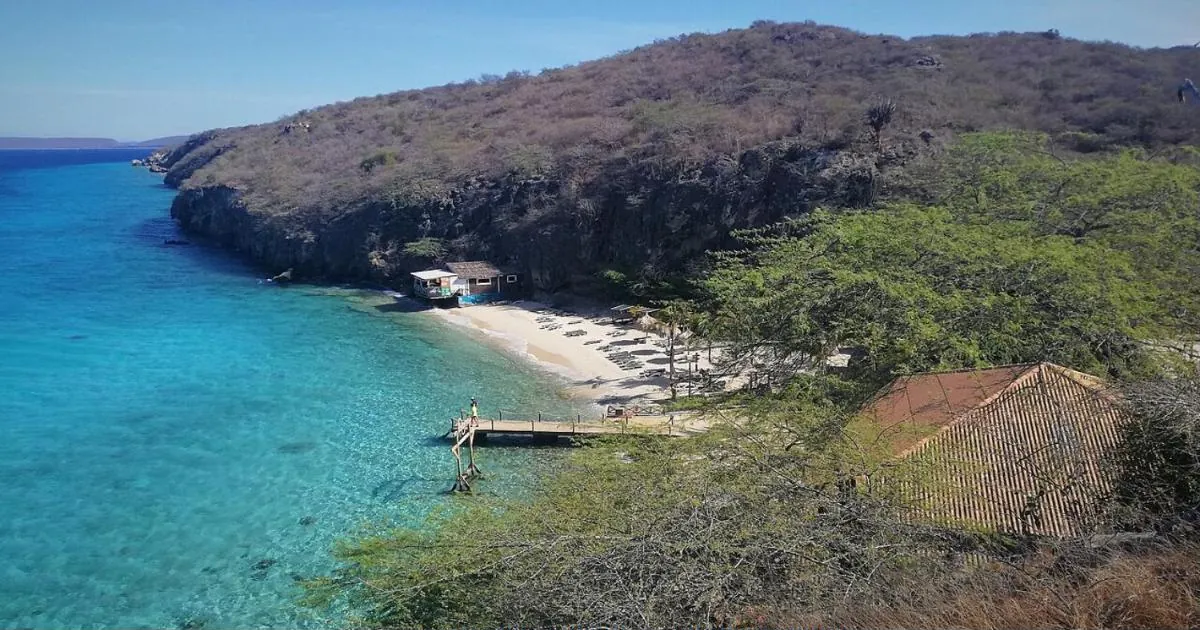
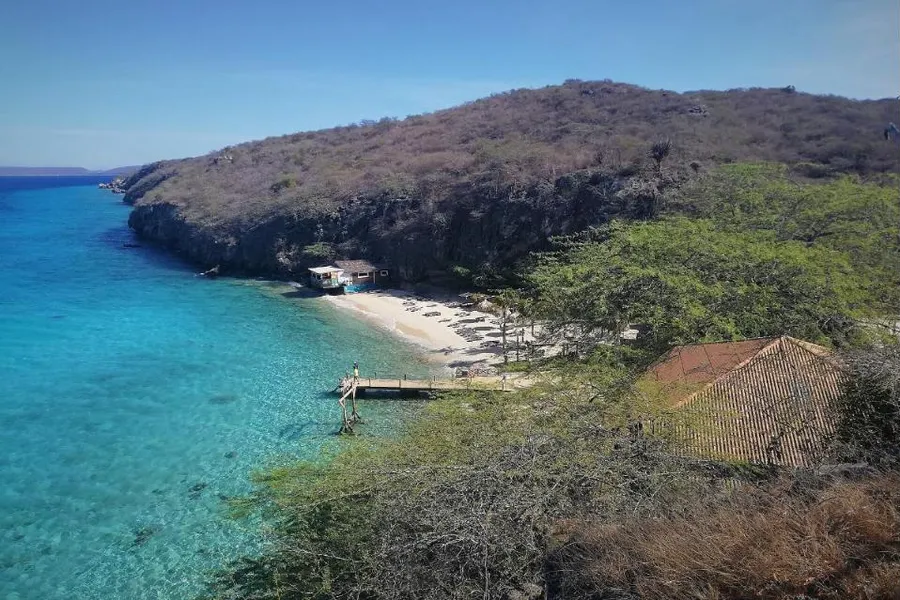
Strandenblog: 7 nieuwe strandfoto's (Wikimedia, met naamsvermelding)
Claude-Session: https://claude.ai/code/session_01PcY7vYDDtwQ4j7n5Q5BWRA

diff --git a/blog/beste-stranden-curacao.html b/blog/beste-stranden-curacao.html
@@ -295,6 +295,7 @@ article tr:nth-child(even) td{background:#F8FAFC}
 <dl class="sf"><div><dt>Gezinnen</dt><dd>Ja, lang ondiep water, speeltuin en waterpark</dd></div><div><dt>Snorkelen</dt><dd>Ja, langs het rif bij de kant</dd></div><div><dt>Voorzieningen</dt><dd>Strandbars, restaurants, winkels, toiletten, douches</dd></div><div><dt>Entree</dt><dd>Betaald, vaak met ligbed</dd></div><div><dt>Schaduw</dt><dd>Parasols bij de ligbedden</dd></div></dl>
 
 <h3>3. Jan Thiel</h3>
+<figure class="dp-foto"><img src="/images/foto/jan-thiel-strand.webp" width="900" height="600" alt="Jan Thiel: rustig water achter de pier en strandtenten onder de palmen" loading="lazy" decoding="async"><figcaption>Jan Thiel: rustig water achter de pier en strandtenten onder de palmen. <span>Foto: <a href="https://commons.wikimedia.org/wiki/File:Curacao_beach_Jan_Thiel_(36699644845).jpg" rel="nofollow noopener" target="_blank">dronepicr</a>, <a href="https://creativecommons.org/licenses/by/2.0/" rel="nofollow noopener" target="_blank">CC BY 2.0</a></span></figcaption></figure>
 <p style="font-size:13px;color:#5C6B7A;margin:-4px 0 8px"><strong>Regio:</strong> Oost &middot; <strong>Goed voor:</strong> gezinnen die alles bij de hand willen hebben</p>
 <p>Een strand met alle voorzieningen: een speeltuin, restaurants, ijs, toiletten met verschoontafel en veel parasols. Een pier beschermt een deel van het strand, waardoor het water daar rustig is. Het zand is grotendeels aangevoerd, dus het voelt minder natuurlijk dan de stranden in het westen.</p>
 <dl class="sf"><div><dt>Gezinnen</dt><dd>Ja, rustig water achter de pier, speeltuin</dd></div><div><dt>Snorkelen</dt><dd>Ja, vanaf de kant</dd></div><div><dt>Voorzieningen</dt><dd>Restaurants, ijs, toiletten met verschoontafel</dd></div><div><dt>Entree</dt><dd>Betaald, gratis voor gasten van sommige resorts</dd></div><div><dt>Schaduw</dt><dd>Veel parasols</dd></div></dl>
@@ -333,6 +334,7 @@ article tr:nth-child(even) td{background:#F8FAFC}
 <dl class="sf"><div><dt>Gezinnen</dt><dd>Ja, rustig instappen, maar verderop snel diep</dd></div><div><dt>Snorkelen</dt><dd>Ja, langs de klifwand links</dd></div><div><dt>Voorzieningen</dt><dd>Snackbar, toiletten (klein bedrag), ligbedden te huur</dd></div><div><dt>Entree</dt><dd>Gratis</dd></div><div><dt>Schaduw</dt><dd>Een paar palmen en palmhutjes</dd></div></dl>
 
 <h3>8. Porto Mari</h3>
+<figure class="dp-foto"><img src="/images/foto/porto-mari-strand.webp" width="900" height="600" alt="Porto Mari: een brede baai met wit zand" loading="lazy" decoding="async"><figcaption>Porto Mari: een brede baai met wit zand. <span>Foto: <a href="https://commons.wikimedia.org/wiki/File:Playa_Porto_Mari_Strand_Curacao_(36561716151).jpg" rel="nofollow noopener" target="_blank">dronepicr</a>, <a href="https://creativecommons.org/licenses/by/2.0/" rel="nofollow noopener" target="_blank">CC BY 2.0</a></span></figcaption></figure>
 <p style="font-size:13px;color:#5C6B7A;margin:-4px 0 8px"><strong>Regio:</strong> West &middot; <strong>Goed voor:</strong> wit zand, palmen en twee riffen</p>
 <p>Een breed strand met fijn wit zand, palmen en veel schaduwplekken. Er zijn toiletten, douches, een strandbar en een duikschool. Voor snorkelaars heeft Porto Mari een bijzonder rif: er liggen er twee achter elkaar. Bij de entree zit vaak een ligbed inbegrepen.</p>
 <dl class="sf"><div><dt>Gezinnen</dt><dd>Ja, kleine speeltuin; er lopen varkens rond</dd></div><div><dt>Snorkelen</dt><dd>Ja, twee riffen</dd></div><div><dt>Voorzieningen</dt><dd>Toiletten, douches, strandbar, duikschool</dd></div><div><dt>Entree</dt><dd>Betaald, met ligbed</dd></div><div><dt>Schaduw</dt><dd>Veel</dd></div></dl>
@@ -347,11 +349,13 @@ article tr:nth-child(even) td{background:#F8FAFC}
 <h2 id="rust">Rustige stranden van Curaçao in de natuur</h2>
 
 <h3>10. Kenepa Chiki (Kleine Knip)</h3>
+<figure class="dp-foto"><img src="/images/foto/kleine-knip-curacao.webp" width="900" height="600" alt="Kleine Knip: wit zand en helder water onder de kliffen" loading="lazy" decoding="async"><figcaption>Kleine Knip: wit zand en helder water onder de kliffen. <span>Foto: <a href="https://commons.wikimedia.org/wiki/File:Kleine_Knip_Curaçao.jpg" rel="nofollow noopener" target="_blank">Charles Hoffman</a>, <a href="https://creativecommons.org/licenses/by-sa/2.0/" rel="nofollow noopener" target="_blank">CC BY-SA 2.0</a></span></figcaption></figure>
 <p style="font-size:13px;color:#5C6B7A;margin:-4px 0 8px"><strong>Regio:</strong> Westpunt &middot; <strong>Goed voor:</strong> rust, en het is gratis</p>
 <p>Het kleine zusje van de Grote Knip, en een favoriet van de locals. <em>Chiki</em> betekent klein. Het water is helder, er staan palmhutjes voor schaduw en de entree is gratis. Er is geen restaurant, dus neem eten en drinken mee. In het weekend gaan hier ook veel families van het eiland naartoe.</p>
 <dl class="sf"><div><dt>Gezinnen</dt><dd>Ja, het zand loopt rustig af</dd></div><div><dt>Snorkelen</dt><dd>Ja</dd></div><div><dt>Voorzieningen</dt><dd>Geen restaurant of toilet; vaak een ijscokar bij de parkeerplaats</dd></div><div><dt>Entree</dt><dd>Gratis</dd></div><div><dt>Schaduw</dt><dd>Palmhutjes en zeedruifbomen</dd></div></dl>
 
 <h3>11. Playa Jeremi</h3>
+<figure class="dp-foto"><img src="/images/foto/playa-jeremi.webp" width="900" height="600" alt="Playa Jeremi: een beschutte baai tussen de rotsen" loading="lazy" decoding="async"><figcaption>Playa Jeremi: een beschutte baai tussen de rotsen. <span>Foto: <a href="https://commons.wikimedia.org/wiki/File:Playa_Jeremi.jpg" rel="nofollow noopener" target="_blank">Hardscarf</a>, <a href="https://creativecommons.org/licenses/by-sa/4.0/" rel="nofollow noopener" target="_blank">CC BY-SA 4.0</a></span></figcaption></figure>
 <p style="font-size:13px;color:#5C6B7A;margin:-4px 0 8px"><strong>Regio:</strong> West &middot; <strong>Goed voor:</strong> stilte en natuur</p>
 <p>Een kleine, beschutte baai met een paar ligbedden en verder vooral natuur. Kinderen kunnen er klimmen op de grote rotsen, en je kunt er snorkelen langs de kant. Voorzieningen zijn er nauwelijks, dus neem alles zelf mee.</p>
 <dl class="sf"><div><dt>Gezinnen</dt><dd>Ja, kinderen spelen en klimmen op de rotsen</dd></div><div><dt>Snorkelen</dt><dd>Ja, langs de kant</dd></div><div><dt>Voorzieningen</dt><dd>Geen; ligbedden en parasols te huur</dd></div><div><dt>Entree</dt><dd>Gratis</dd></div><div><dt>Schaduw</dt><dd>Parasols, één palmhut</dd></div></dl>
@@ -366,10 +370,12 @@ article tr:nth-child(even) td{background:#F8FAFC}
 <p>De 12 stranden hierboven zijn onze favorieten. Maar Curaçao heeft er veel meer. Dit zijn de andere bekende stranden, per gebied.</p>
 <h3 class="sub">Bij Willemstad en Piscadera</h3>
 <h3>13. Kokomo Beach</h3>
+<figure class="dp-foto"><img src="/images/foto/kokomo-beach.webp" width="900" height="600" alt="Kokomo Beach in de Vaersenbaai, met de steiger en het helderblauwe water" loading="lazy" decoding="async"><figcaption>Kokomo Beach in de Vaersenbaai, met de steiger en het helderblauwe water. <span>Foto: <a href="https://commons.wikimedia.org/wiki/File:Kokomo_Beach.jpg" rel="nofollow noopener" target="_blank">Baklu23</a>, <a href="https://creativecommons.org/licenses/by-sa/4.0/" rel="nofollow noopener" target="_blank">CC BY-SA 4.0</a></span></figcaption></figure>
 <p style="font-size:13px;color:#5C6B7A;margin:-4px 0 8px"><strong>Regio:</strong> Vaersenbaai, tussen Willemstad en Sint Michiel &middot; <strong>Goed voor:</strong> een strandbar met helder water</p>
 <p>Een strandclub in een natuurlijke baai met helder, rustig water. De entree is gratis, je betaalt alleen voor een ligbed. Eigen eten en drinken mag niet mee. Het rif ligt op 30 tot 40 meter, met papegaaivissen en goed zicht. Op zondag is er vaak muziek en is het druk.</p>
 <dl class="sf"><div><dt>Gezinnen</dt><dd>Overdag gezinsvriendelijk; eerst ondiep, de instap is wat rotsig</dd></div><div><dt>Snorkelen</dt><dd>Ja, het rif ligt op 30 tot 40 meter</dd></div><div><dt>Voorzieningen</dt><dd>Strandbar, restaurant, ligbedden, duikschool. Eigen eten mag niet mee</dd></div><div><dt>Entree</dt><dd>Gratis, ligbed betaald</dd></div><div><dt>Schaduw</dt><dd>Beperkt, een paar palmhutjes</dd></div></dl>
 <h3>14. Blue Bay</h3>
+<figure class="dp-foto"><img src="/images/foto/blue-bay-curacao.webp" width="900" height="600" alt="Blue Bay: een resortstrand in een rustige baai" loading="lazy" decoding="async"><figcaption>Blue Bay: een resortstrand in een rustige baai. <span>Foto: <a href="https://commons.wikimedia.org/wiki/File:Blue_Bay_-_Curacao.jpg" rel="nofollow noopener" target="_blank">Frank Jania</a>, <a href="https://creativecommons.org/licenses/by-sa/2.0/" rel="nofollow noopener" target="_blank">CC BY-SA 2.0</a></span></figcaption></figure>
 <p style="font-size:13px;color:#5C6B7A;margin:-4px 0 8px"><strong>Regio:</strong> Sint Michiel &middot; <strong>Goed voor:</strong> gezinnen die alles geregeld willen hebben</p>
 <p>Een resortstrand in een mooie blauwe baai, met een speeltuin, een groot zwembad, nette toiletten en douches en een restaurant met kinderstoelen. Vlak voor de kust ligt een koraaltuin, fijn voor beginnende snorkelaars. Het is een van de duurste dagpassen van het eiland.</p>
 <dl class="sf"><div><dt>Gezinnen</dt><dd>Ja, speeltuin en zwembad</dd></div><div><dt>Snorkelen</dt><dd>Ja, koraaltuin, goed voor beginners</dd></div><div><dt>Voorzieningen</dt><dd>Toiletten, douches, restaurant, zwembad</dd></div><div><dt>Entree</dt><dd>Betaald (dagpas)</dd></div><div><dt>Schaduw</dt><dd>Palmen en parasols</dd></div></dl>
@@ -417,6 +423,7 @@ article tr:nth-child(even) td{background:#F8FAFC}
 <dl class="sf"><div><dt>Gezinnen</dt><dd>Niet met kleine kinderen: diep water en rotsen</dd></div><div><dt>Snorkelen</dt><dd>Ja, heel goed langs de kliffen</dd></div><div><dt>Voorzieningen</dt><dd>Restaurant op de klif</dd></div><div><dt>Entree</dt><dd>Gratis</dd></div></dl>
 <h3 class="sub">Met de boot</h3>
 <h3>25. Klein Curaçao</h3>
+<figure class="dp-foto"><img src="/images/foto/klein-curacao-luchtfoto.webp" width="900" height="600" alt="Klein Curaçao van bovenaf: het witte strand ligt aan de beschutte westkant" loading="lazy" decoding="async"><figcaption>Klein Curaçao van bovenaf: het witte strand ligt aan de beschutte westkant. <span>Foto: <a href="https://commons.wikimedia.org/wiki/File:Klein_Curacao_(34873648396).jpg" rel="nofollow noopener" target="_blank">dronepicr</a>, <a href="https://creativecommons.org/licenses/by/2.0/" rel="nofollow noopener" target="_blank">CC BY 2.0</a></span></figcaption></figure>
 <p style="font-size:13px;color:#5C6B7A;margin:-4px 0 8px"><strong>Regio:</strong> Een onbewoond eilandje, 1,5 tot 2 uur varen &middot; <strong>Goed voor:</strong> een dagtrip met wit zand en schildpadden</p>
 <p>Een klein, plat eiland zonder bewoners, met een witte zandkust, een oude vuurtoren en een scheepswrak. Je kunt er alleen komen met een georganiseerde boottocht. Aan de westkant snorkel je vaak tussen de schildpadden. Er is bijna geen schaduw. De heenreis kan bij wind flink schommelen, dus neem iets tegen zeeziekte mee als je daar last van hebt.</p>
 <dl class="sf"><div><dt>Gezinnen</dt><dd>Ja, maar check de leeftijd bij de aanbieder</dd></div><div><dt>Snorkelen</dt><dd>Ja, met schildpadden</dd></div><div><dt>Voorzieningen</dt><dd>Via de boottocht: ligbedden, toilet, lunch</dd></div><div><dt>Entree</dt><dd>Via een boottocht</dd></div><div><dt>Schaduw</dt><dd>Bijna geen</dd></div></dl>
